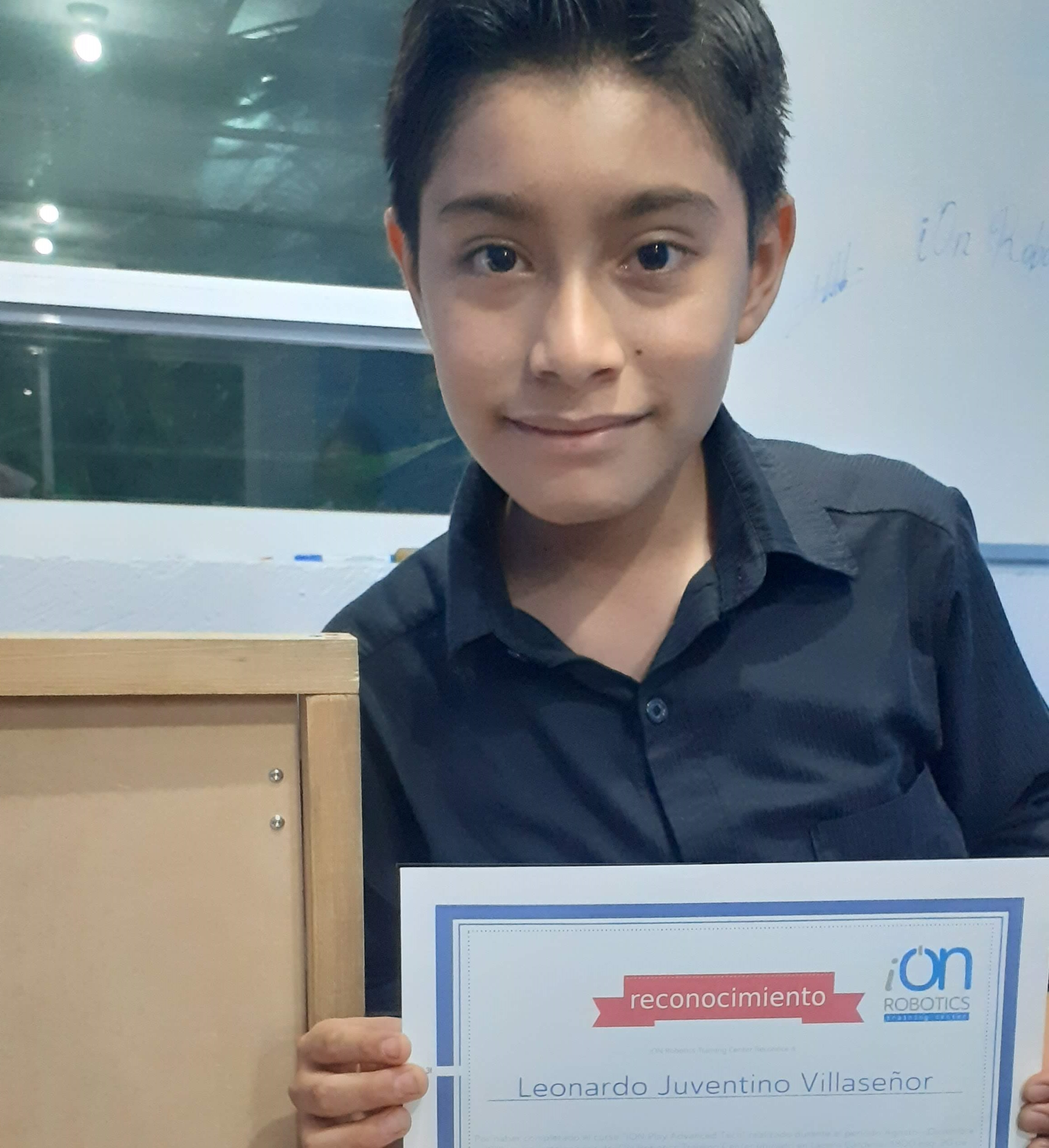
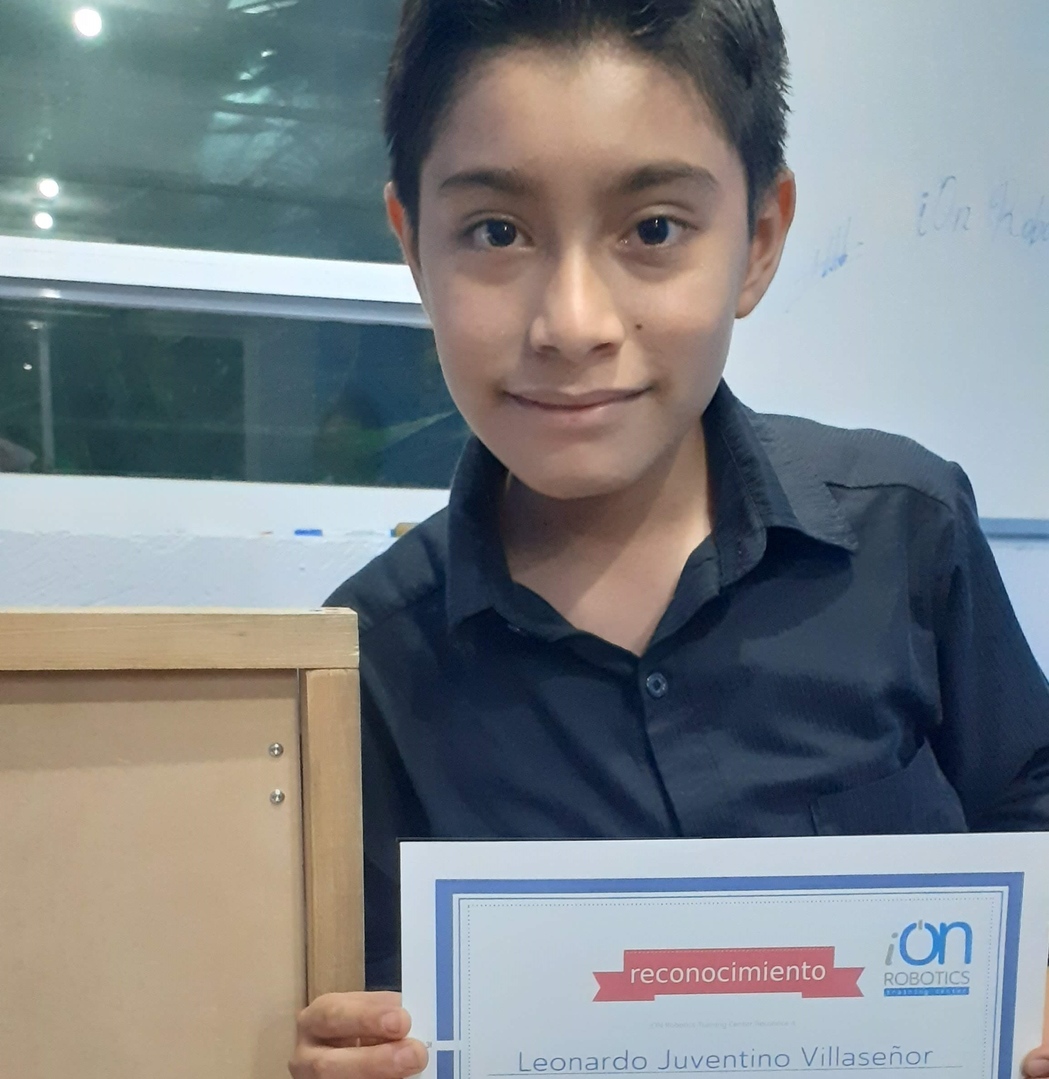
tarjetas con imagenes de mismo tamaño

diff --git a/paginas/logros.html b/paginas/logros.html
@@ -52,7 +52,7 @@
                 </div>
 
                 <div class="seccion__articulo" data-aos="fade-up">
-                    <img class="img__articulo--mod" src="../recursos/spellingBee-2019.jpg">
+                    <img class="img__articulo" src="../recursos/spellingBee-2019.jpg">
                     <h3 class="titulo__articulo">
                         Concurso de Spelling Bee
                     </h3>
@@ -96,7 +96,7 @@
             </h2>
             <div class="articulos__tecnologia">
                 <div class="seccion__articulo" data-aos="fade-up">
-                    <img class="img__articulo--mod" src="../recursos/ionRgradArduino-2019.jpg">
+                    <img class="img__articulo" src="../recursos/ionRgradArduino-2019.jpg">
                     <h3 class="titulo__articulo">
                         Graduación de Arduino
                     </h3>
@@ -109,7 +109,7 @@
                 </div>
 
                 <div class="seccion__articulo" data-aos="fade-up">
-                    <img class="img__articulo--mod" src="../recursos/2doLugarRobotLego-2019.jpg">
+                    <img class="img__articulo" src="../recursos/2doLugarRobotLego-2019.jpg">
                     <h3 class="titulo__articulo">
                         Concurso de robótica
                     </h3>
@@ -148,7 +148,7 @@
                 </div>
 
                 <div class="seccion__articulo" data-aos="fade-up">
-                    <img class="img__articulo--mod" src="../recursos/carritoMblock-2018.jpg">
+                    <img class="img__articulo" src="../recursos/carritoMblock-2018.jpg">
                     <h3 class="titulo__articulo">
                         Concurso de MBlock 
                     </h3>
@@ -168,7 +168,7 @@
 
             <div class="articulos__ajedrez">
                 <div class="seccion__articulo" data-aos="fade-up">
-                    <img class="img__articulo--mod" src="../recursos/gradAjedrez-2018.jpeg">
+                    <img class="img__articulo" src="../recursos/gradAjedrez-2018.jpeg">
                     <h3 class="titulo__articulo">
                         Graduación de Ajedrez
                     </h3>
@@ -187,7 +187,7 @@
 
             <div class="articulos__arte">
                 <div class="seccion__articulo" data-aos="fade-up">
-                    <img class="img__articulo--mod" src="../recursos/gradArte-2018.JPG">
+                    <img class="img__articulo" src="../recursos/gradArte-2018.JPG">
                     <h3 class="titulo__articulo">
                         Graduación de curso de Arte
                     </h3>

diff --git a/css/estilos.css b/css/estilos.css
@@ -181,12 +181,6 @@ p{
     padding-top: 5px;
 }
 
-.img__articulo--mod{
-    width:min-content;
-    height: 50%;
-    padding-top: 5px;
-}
-
 /* pagina de contacto */
 form{
     width: 550px;
